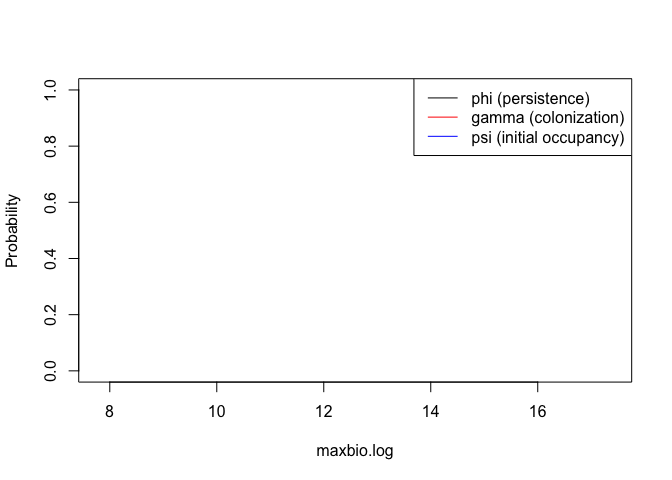
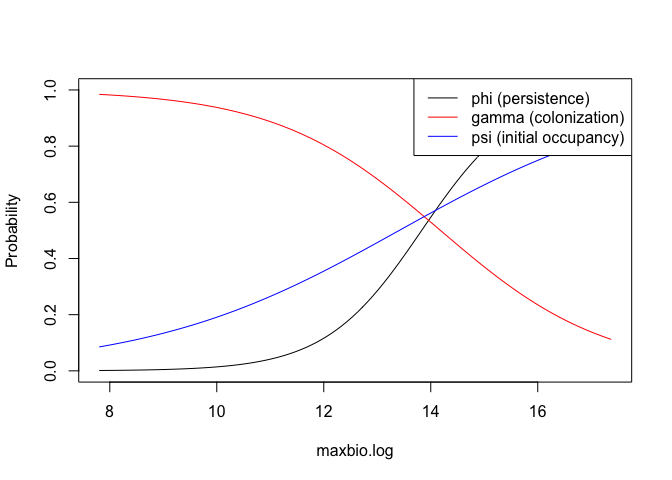
Fit a full environmental model (temperature, waves, patch size)

diff --git a/code/metaKelp.md b/code/metaKelp.md
@@ -3,9 +3,21 @@ Investigate metapopulation dynamics in kelp
 
 - [Read in data and set basic
   params](#read-in-data-and-set-basic-params)
+  - [Plot the data](#plot-the-data)
 - [Statistical models like Castorani et al. 2017
   PRSB.](#statistical-models-like-castorani-et-al-2017-prsb)
+  - [Basic model.](#basic-model)
+  - [Models with temperature and
+    waves.](#models-with-temperature-and-waves)
 - [Dynamic occupancy model](#dynamic-occupancy-model)
+  - [Plot environmental functions](#plot-environmental-functions)
+  - [Plot occupancy fits over space and
+    time](#plot-occupancy-fits-over-space-and-time)
+  - [Detectability through time](#detectability-through-time)
+  - [Plot colonization fits over space and
+    time](#plot-colonization-fits-over-space-and-time)
+  - [Plot persistence fits over space and
+    time](#plot-persistence-fits-over-space-and-time)
 
 Builds from Miriam Wanner’s data processing code in
 <https://github.com/miriamwanner/kelpsynchrony/blob/0.2.1/Code/init_data_processing.R>
@@ -77,7 +89,7 @@ Read in from a file if available, since otherwise slow.
 Calculate fecundity and dispersal probability. Uses the survival rate
 set in the first code block.
 
-Reshape the data into long format and plot.
+## Plot the data
 
 ``` r
 # plot biomass
@@ -319,7 +331,9 @@ kelpstats$prevocc.f <- as.factor(kelpstats$prevocc)
 kelpstats$hs.log <- log(kelpstats$hs+1)
 ```
 
-Basic model. Use maxbio instead of patch area for now
+## Basic model.
+
+Use maxbio instead of patch area for now
 
 ``` r
 mod <- glmmTMB(occ ~ connectivity.log + prevocc.f + maxbio.log + (1|year/sem) + (1|site), data = kelpstats, family = binomial(link = 'logit'))
@@ -344,8 +358,10 @@ plot(toplot2)
 
 ![](metaKelp_files/figure-gfm/stats-3.png)<!-- -->
 
-Models with temperature and waves. Lower probability of occupancy with
-higher temperatures or waves, as expected.
+## Models with temperature and waves.
+
+Lower probability of occupancy with higher temperatures or waves, as
+expected.
 
 ``` r
 mod_env <- glmmTMB(occ ~ connectivity.log + prevocc.f + maxbio.log + sst + hs.log + (1|year/sem) + (1|site), data = kelpstats, family = binomial(link = 'logit'))
@@ -395,11 +411,13 @@ plot(toplot5)
 
 # Dynamic occupancy model
 
-Read in from file if temp/dyn_occ.rds exists
+Read in from file if it exists. Inspired by
+<https://bcss.org.my/tut/bayes-with-jags-a-tutorial-for-wildlife-researchers/occupancy-modelling/dynamic-occupancy-modelling/>
 
 ``` r
 #model <- 'dyn_occ_null'
-model <- 'dyn_occ_temp'
+#model <- 'dyn_occ_temp'
+model <- 'dyn_occ_full'
 
 # Standardize covariates
 ytokeep <- 6:152 # trim to years with sst
@@ -418,7 +436,7 @@ if(file.exists(here('temp', paste0(model, '.rds')))){
     
     jdata <- list(nSites = nrow(z), nYears = ncol(z), y =(kelpDataROMSSites[,ytokeep]>0)*1,
                   z = z,  
-                  n = (kelpDataROMSSites[,ytokeep]>0)*100, # use 100 for abundance proxy. detection is ~1/this
+                  n = (kelpDataROMSSites[,ytokeep]>0)*5, # set an abundance proxy. detection is ~1/proxy value
                   sst = sstS, 
                   hs = hsS,
                   maxbio = maxbio.logS)
@@ -464,7 +482,7 @@ jagsUI::traceplot(dyn_occ, parameters = c("Topt1", "width1", "Topt2", "width2", 
             "betapsi_hs", "betaphi_hs"))
 ```
 
-![](metaKelp_files/figure-gfm/dynocc%20examination-1.png)<!-- -->
+![](metaKelp_files/figure-gfm/dynocc%20examination-1.png)<!-- -->![](metaKelp_files/figure-gfm/dynocc%20examination-2.png)<!-- -->
 
 ``` r
 jagsUI::densityplot(dyn_occ, parameters = c("Topt1", "width1", "Topt2", "width2", "Topt3", "width3", 
@@ -472,7 +490,7 @@ jagsUI::densityplot(dyn_occ, parameters = c("Topt1", "width1", "Topt2", "width2"
             "betapsi_hs", "betaphi_hs"))
 ```
 
-![](metaKelp_files/figure-gfm/dynocc%20examination-2.png)<!-- -->
+![](metaKelp_files/figure-gfm/dynocc%20examination-3.png)<!-- -->![](metaKelp_files/figure-gfm/dynocc%20examination-4.png)<!-- -->
 
 ``` r
 # WAIC and LOO
@@ -483,15 +501,18 @@ jagsUI::densityplot(dyn_occ, parameters = c("Topt1", "width1", "Topt2", "width2"
 # loo0 <- loo(loglik0); loo0
 ```
 
-Plot environmental functions
+## Plot environmental functions
+
+Plot using the mean intercept across time and space (if multiple were
+estimated).
 
 ``` r
 # Temperature. Average over spatial and temporal variation in intercepts
 Tresponses <- data.table(sstS = seq(from = min(sstS), to = max(sstS), length.out = 100))
 Tresponses[, sst := sstS*sd(sstROMSSites[,ytokeep]) + mean(sstROMSSites[,ytokeep])]
+Tresponses[, psi := mean(dyn_occ$mean$psiInt)*exp(-0.5*((sstS-dyn_occ$mean$Topt1)/dyn_occ$mean$width1)^2)]
 Tresponses[, phi := mean(dyn_occ$mean$phiInt)*exp(-0.5*((sstS-dyn_occ$mean$Topt2)/dyn_occ$mean$width2)^2)]
 Tresponses[, gamma := mean(dyn_occ$mean$gamInt)*exp(-0.5*((sstS-dyn_occ$mean$Topt3)/dyn_occ$mean$width3)^2)]
-Tresponses[, psi := mean(dyn_occ$mean$psiInt)*exp(-0.5*((sstS-dyn_occ$mean$Topt1)/dyn_occ$mean$width1)^2)]
 
 Tresponses[, plot(sst, phi, type = 'l', ylab = 'Probability', ylim = range(c(phi, gamma, psi)))]
 ```
@@ -520,11 +541,11 @@ legend('bottomright', col = c('black', 'red', 'blue'), lty = c(1,1), legend = c(
 # Maxbio responses
 Bresponses <- data.table(maxbio.logS = seq(from = min(maxbio.logS), to = max(maxbio.logS), length.out = 100))
 Bresponses[, maxbio.log := maxbio.logS*sd(maxbio$maxbio.log) + mean(maxbio$maxbio.log)]
-Bresponses[, phi := plogis(qlogis(dyn_occ$mean$phiInt) + dyn_occ$mean$betaphi_maxbio*maxbio.logS)* 
+Bresponses[, psi := plogis(qlogis(mean(dyn_occ$mean$psiInt)) + dyn_occ$mean$betapsi_maxbio*maxbio.logS)* 
                exp(-0.5*((0-dyn_occ$mean$Topt1)/dyn_occ$mean$width1)^2)]
-Bresponses[, gamma := plogis(qlogis(dyn_occ$mean$gamInt) + dyn_occ$mean$betagam_maxbio*maxbio.logS)* 
+Bresponses[, phi := plogis(qlogis(mean(dyn_occ$mean$phiInt)) + dyn_occ$mean$betaphi_maxbio*maxbio.logS)* 
                exp(-0.5*((0-dyn_occ$mean$Topt1)/dyn_occ$mean$width1)^2)]
-Bresponses[, psi := plogis(qlogis(dyn_occ$mean$psiInt) + dyn_occ$mean$betapsi_maxbio*maxbio.logS)* 
+Bresponses[, gamma := plogis(qlogis(mean(dyn_occ$mean$gamInt)) + dyn_occ$mean$betagam_maxbio*maxbio.logS)* 
                exp(-0.5*((0-dyn_occ$mean$Topt1)/dyn_occ$mean$width1)^2)]
 
 Bresponses[, plot(maxbio.log, phi, type = 'l', ylab = 'Probability', ylim=c(0,1))]
@@ -554,10 +575,10 @@ legend('topright', col = c('black', 'red', 'blue'), lty = c(1,1), legend = c('ph
 # Wave responses
 Wresponses <- data.table(hsS = seq(from = min(hsS), to = max(hsS), length.out = 100))
 Wresponses[, hs := hsS*sd(wavesROMSSites[,ytokeep]) + mean(wavesROMSSites[,ytokeep])]
-Wresponses[, phi := plogis(qlogis(dyn_occ$mean$phiInt) + dyn_occ$mean$betaphi_hs*hsS)* 
-               exp(-0.5*((0-dyn_occ$mean$Topt1)/dyn_occ$mean$width1)^2)] # persistence response. no colonization response.
-Wresponses[, psi := plogis(qlogis(dyn_occ$mean$psiInt) + dyn_occ$mean$betapsi_hs*hsS)* 
+Wresponses[, psi := plogis(qlogis(mean(dyn_occ$mean$psiInt)) + dyn_occ$mean$betapsi_hs*hsS)* 
                exp(-0.5*((0-dyn_occ$mean$Topt1)/dyn_occ$mean$width1)^2)] # initial occupancy response
+Wresponses[, phi := plogis(qlogis(mean(dyn_occ$mean$phiInt)) + dyn_occ$mean$betaphi_hs*hsS)* 
+               exp(-0.5*((0-dyn_occ$mean$Topt1)/dyn_occ$mean$width1)^2)] # persistence response. no colonization response.
 
 Wresponses[, plot(hs, phi, type = 'l', ylab = 'Probability', ylim=c(0,1))]
 ```
@@ -576,7 +597,7 @@ legend('bottomright', col = c('black', 'red', 'blue'), lty = c(1,1), legend = c(
 
 ![](metaKelp_files/figure-gfm/dynocc%20environmental%20plots-3.png)<!-- -->
 
-Plot occupancy fits over space and time
+## Plot occupancy fits over space and time
 
 ``` r
 psi_meanlong <- reshape2::melt(dyn_occ$mean$psi, varnames = c('site', 'time'), value.name = 'psi')
@@ -587,7 +608,7 @@ ggplot(psi_meanlong, aes(x = time, y = site, fill = psi)) +
 
 ![](metaKelp_files/figure-gfm/plot%20occupancy%20predictions-1.png)<!-- -->
 
-Detectability through time
+## Detectability through time
 
 ``` r
 p_meanlong <- reshape2::melt(dyn_occ$mean$p, varnames = c('time'), value.name = 'p')
@@ -597,7 +618,7 @@ ggplot(p_meanlong, aes(x = time, y = p)) +
 
 ![](metaKelp_files/figure-gfm/plot%20detection-1.png)<!-- -->
 
-Plot colonization fits over space and time
+## Plot colonization fits over space and time
 
 ``` r
 if(length(dim(dyn_occ$mean$gamma))==1){
@@ -613,7 +634,7 @@ if(length(dim(dyn_occ$mean$gamma))==1){
 
 ![](metaKelp_files/figure-gfm/plot%20colonization%20predictions-1.png)<!-- -->
 
-Plot persistence fits over space and time
+## Plot persistence fits over space and time
 
 ``` r
 if(length(dim(dyn_occ$mean$phi))==1){
